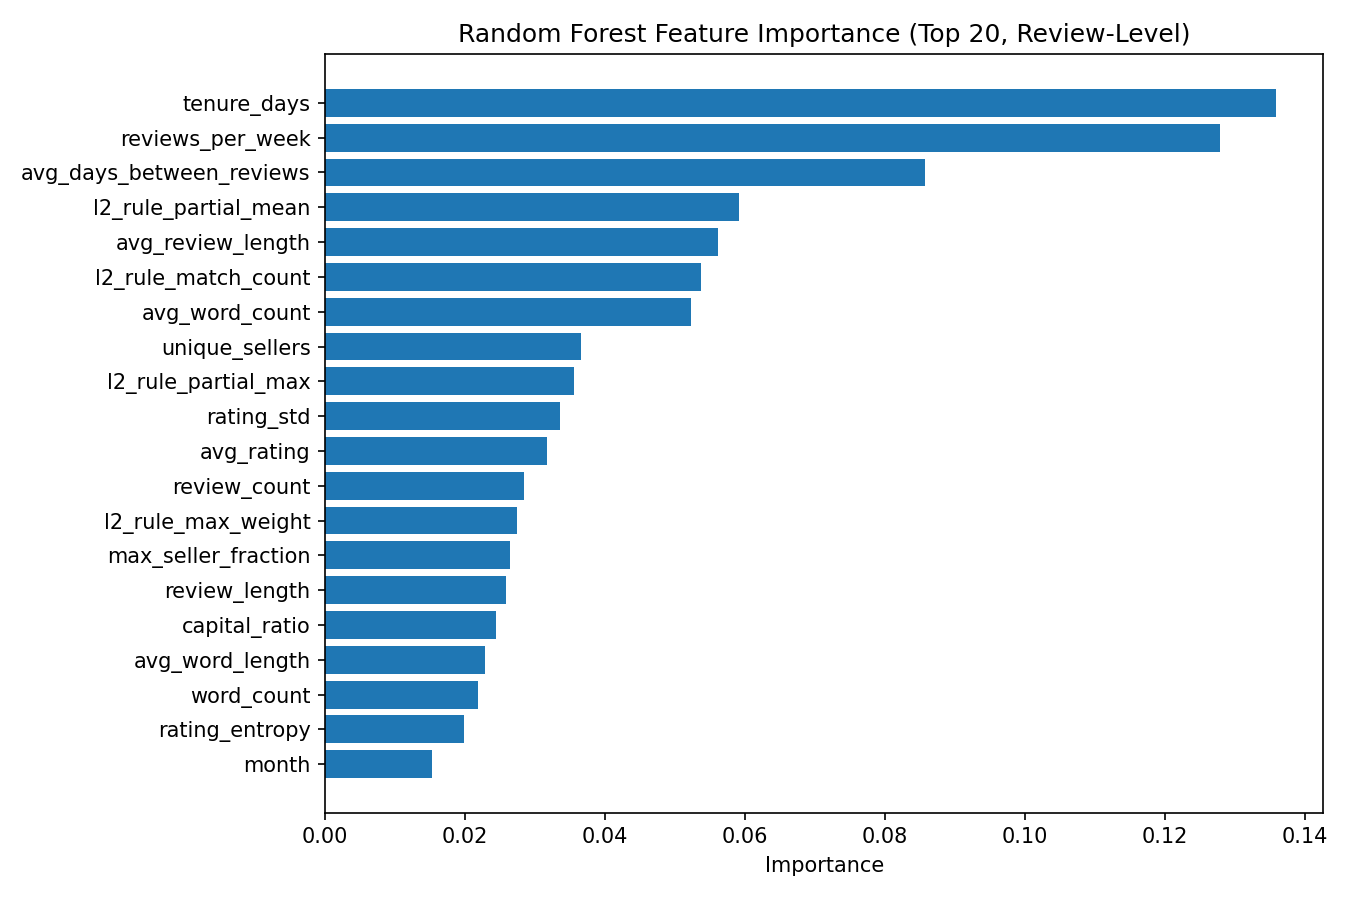
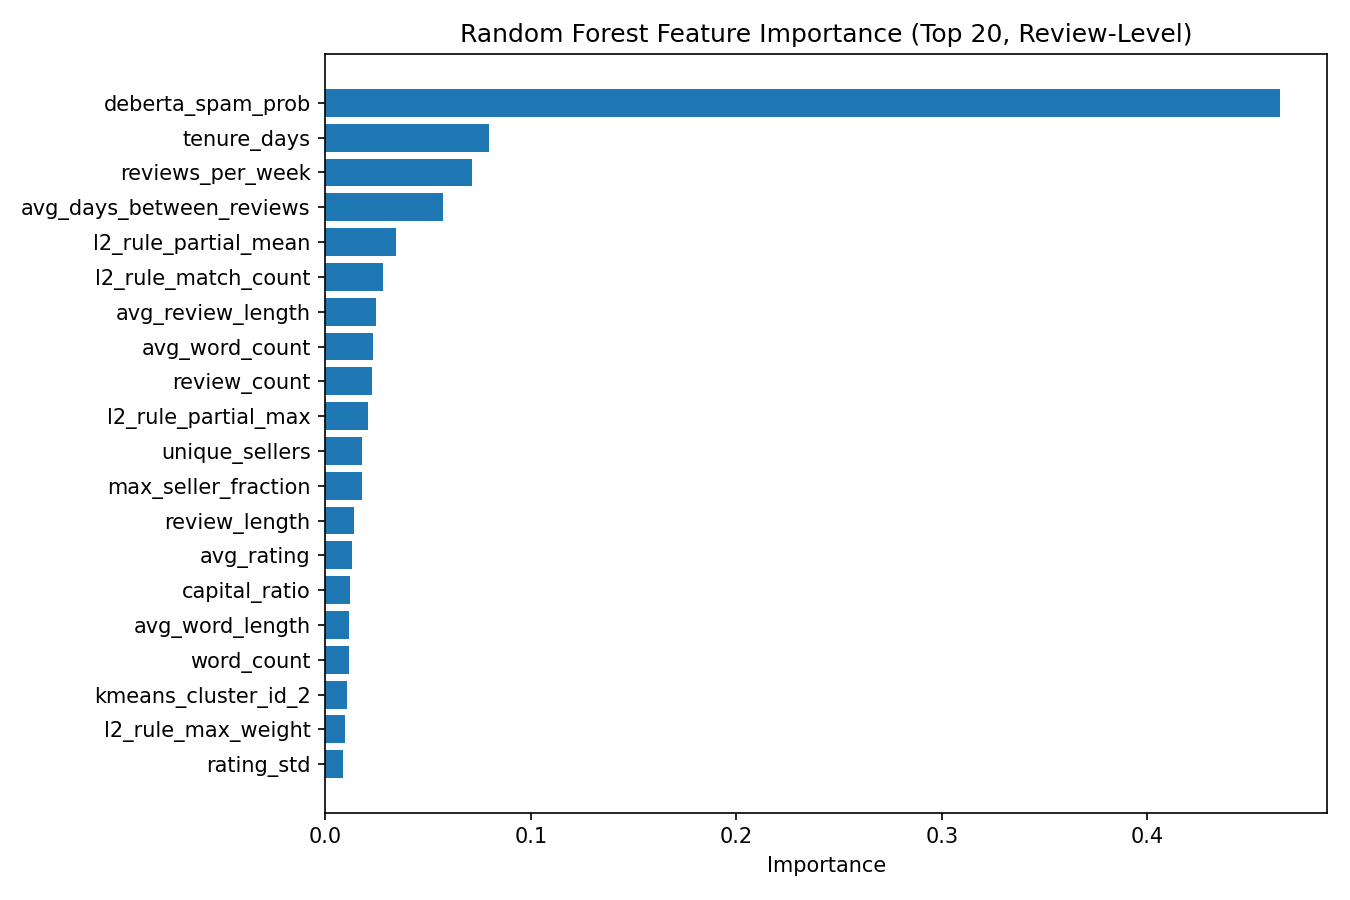
L5: rewrite classification at review-level with L3 signal (MLP AUC=0.94)

diff --git a/L5_Classification/02_train_models.py b/L5_Classification/02_train_models.py
@@ -36,11 +36,14 @@ from sklearn.metrics import (
     roc_auc_score,
     roc_curve,
 )
-from sklearn.model_selection import StratifiedGroupKFold, train_test_split
 from sklearn.neural_network import MLPClassifier
 from sklearn.pipeline import Pipeline
 from sklearn.preprocessing import StandardScaler
 from sklearn.tree import DecisionTreeClassifier
+
+import sys as _sys
+_sys.path.insert(0, str(Path(__file__).resolve().parent))
+from utils import get_group_stratified_split, impute_split, prepare_features  # noqa: E402
 
 PROJECT_ROOT = Path(__file__).resolve().parents[1]
 L5_DIR = PROJECT_ROOT / "L5_Classification"
@@ -51,89 +54,8 @@ INPUT_PATH = OUTPUT_DIR / "l5_feature_table.csv"
 RANDOM_STATE = 42
 
 
-def get_group_stratified_split(
-    X: pd.DataFrame,
-    y: np.ndarray,
-    groups: np.ndarray,
-    test_size: float = 0.20,
-    random_state: int = 42,
-) -> tuple[np.ndarray, np.ndarray]:
-    n_splits = max(2, int(round(1 / test_size)))
-    sgkf = StratifiedGroupKFold(n_splits=n_splits, shuffle=True, random_state=random_state)
-
-    best_split = None
-    best_gap = float("inf")
-
-    for tr_idx, te_idx in sgkf.split(X, y, groups):
-        current_ratio = len(te_idx) / len(y)
-        gap = abs(current_ratio - test_size)
-        if gap < best_gap:
-            best_gap = gap
-            best_split = (tr_idx, te_idx)
-
-    if best_split is None:
-        tr_idx, te_idx = train_test_split(
-            np.arange(len(y)),
-            test_size=test_size,
-            stratify=y,
-            random_state=random_state,
-        )
-        return tr_idx, te_idx
-
-    return best_split
-
-
-def _prepare_features(df: pd.DataFrame) -> tuple[pd.DataFrame, np.ndarray, np.ndarray]:
-    """Prepare review-level features. Label = is_spam, groups = user_id."""
-    if "is_spam" not in df.columns:
-        raise KeyError("Input feature table must contain is_spam")
-    if "user_id" not in df.columns:
-        raise KeyError("Input feature table must contain user_id")
-
-    leakage_cols = {
-        "user_id",
-        "prod_id",
-        "is_spam",
-        "spam_label",
-        "spam_rate",
-        "spam_count",
-        "is_spam_reviewer",
-        "label",
-    }
-    drop_cols = {"first_review_date", "last_review_date", "review_date", "date", "year_month"}
-
-    exclude = leakage_cols | drop_cols
-    X = df[[c for c in df.columns if c not in exclude]].copy()
-    y = df["is_spam"].astype(int).to_numpy()
-    groups = df["user_id"].to_numpy()
-
-    for col in X.columns:
-        if X[col].dtype == "bool":
-            X[col] = X[col].astype(int)
-
-    # One-hot encode kmeans_cluster_id (5 clusters — manageable)
-    # dbscan_is_noise stays as-is (already binary), no dbscan_cluster column
-    cluster_cols = [c for c in ("kmeans_cluster_id",) if c in X.columns]
-    if cluster_cols:
-        for c in cluster_cols:
-            X[c] = X[c].astype(int).astype(str)
-        X = pd.get_dummies(X, columns=cluster_cols, drop_first=False)
-
-    cat_cols = [c for c in X.columns if X[c].dtype == "object"]
-    if cat_cols:
-        X = pd.get_dummies(X, columns=cat_cols, drop_first=False)
-
-    X = X.apply(pd.to_numeric, errors="coerce")
-
-    return X, y, groups
-
-
-def _impute_split(X_train: pd.DataFrame, X_test: pd.DataFrame) -> tuple[pd.DataFrame, pd.DataFrame]:
-    """Fill NaNs using training-set median only (no test-set leakage)."""
-    train_median = X_train.median(numeric_only=True)
-    X_train = X_train.fillna(train_median).fillna(0)
-    X_test = X_test.fillna(train_median).fillna(0)
-    return X_train, X_test
+_prepare_features = prepare_features
+_impute_split = impute_split
 
 
 def _score_vector(model, X: pd.DataFrame) -> np.ndarray:

diff --git a/L5_Classification/03_anomaly_detection.py b/L5_Classification/03_anomaly_detection.py
@@ -23,9 +23,12 @@ import numpy as np
 import pandas as pd
 from sklearn.ensemble import IsolationForest
 from sklearn.metrics import average_precision_score, f1_score, roc_auc_score, roc_curve
-from sklearn.model_selection import StratifiedGroupKFold, train_test_split
 from sklearn.neighbors import LocalOutlierFactor
 from sklearn.preprocessing import StandardScaler
+
+import sys as _sys
+_sys.path.insert(0, str(Path(__file__).resolve().parent))
+from utils import get_group_stratified_split, impute_split, prepare_features  # noqa: E402
 
 PROJECT_ROOT = Path(__file__).resolve().parents[1]
 L5_DIR = PROJECT_ROOT / "L5_Classification"
@@ -36,83 +39,8 @@ INPUT_PATH = OUTPUT_DIR / "l5_feature_table.csv"
 RANDOM_STATE = 42
 
 
-def get_group_stratified_split(
-    X: pd.DataFrame,
-    y: np.ndarray,
-    groups: np.ndarray,
-    test_size: float = 0.20,
-    random_state: int = 42,
-) -> tuple[np.ndarray, np.ndarray]:
-    n_splits = max(2, int(round(1 / test_size)))
-    sgkf = StratifiedGroupKFold(n_splits=n_splits, shuffle=True, random_state=random_state)
-
-    best_split = None
-    best_gap = float("inf")
-
-    for tr_idx, te_idx in sgkf.split(X, y, groups):
-        current_ratio = len(te_idx) / len(y)
-        gap = abs(current_ratio - test_size)
-        if gap < best_gap:
-            best_gap = gap
-            best_split = (tr_idx, te_idx)
-
-    if best_split is None:
-        tr_idx, te_idx = train_test_split(
-            np.arange(len(y)),
-            test_size=test_size,
-            stratify=y,
-            random_state=random_state,
-        )
-        return tr_idx, te_idx
-
-    return best_split
-
-
-def _prepare_features(df: pd.DataFrame) -> tuple[pd.DataFrame, np.ndarray, np.ndarray]:
-    """Prepare review-level features. Label = is_spam, groups = user_id."""
-    leakage_cols = {
-        "user_id",
-        "prod_id",
-        "is_spam",
-        "spam_label",
-        "spam_rate",
-        "spam_count",
-        "is_spam_reviewer",
-        "label",
-    }
-    drop_cols = {"first_review_date", "last_review_date", "review_date", "date", "year_month"}
-
-    exclude = leakage_cols | drop_cols
-    X = df[[c for c in df.columns if c not in exclude]].copy()
-    y = df["is_spam"].astype(int).to_numpy()
-    groups = df["user_id"].to_numpy()
-
-    for col in X.columns:
-        if X[col].dtype == "bool":
-            X[col] = X[col].astype(int)
-
-    # One-hot encode kmeans_cluster_id only (no dbscan_cluster column)
-    cluster_cols = [c for c in ("kmeans_cluster_id",) if c in X.columns]
-    if cluster_cols:
-        for c in cluster_cols:
-            X[c] = X[c].astype(int).astype(str)
-        X = pd.get_dummies(X, columns=cluster_cols, drop_first=False)
-
-    cat_cols = [c for c in X.columns if X[c].dtype == "object"]
-    if cat_cols:
-        X = pd.get_dummies(X, columns=cat_cols, drop_first=False)
-
-    X = X.apply(pd.to_numeric, errors="coerce")
-
-    return X, y, groups
-
-
-def _impute_split(X_train: pd.DataFrame, X_test: pd.DataFrame) -> tuple[pd.DataFrame, pd.DataFrame]:
-    """Fill NaNs using training-set median only (no test-set leakage)."""
-    train_median = X_train.median(numeric_only=True)
-    X_train = X_train.fillna(train_median).fillna(0)
-    X_test = X_test.fillna(train_median).fillna(0)
-    return X_train, X_test
+_prepare_features = prepare_features
+_impute_split = impute_split
 
 
 def _evaluate(y_true: np.ndarray, scores: np.ndarray, pred_binary: np.ndarray, name: str) -> dict:

diff --git a/L5_Classification/01_build_feature_table.py b/L5_Classification/01_build_feature_table.py
@@ -44,6 +44,7 @@ REVIEWER_PROFILE_CANDIDATES = [
 L2_RULES_PATH = PROJECT_ROOT / "L2_FPGrowth" / "outputs" / "spam_correlated_rules.csv"
 L4_KMEANS_PATH = PROJECT_ROOT / "L4_Clustering" / "outputs" / "reviewer_clusters.csv"
 L4_DBSCAN_PATH = PROJECT_ROOT / "L4_Clustering" / "outputs" / "dbscan_results.csv"
+L3_PREDICTIONS_PATH = PROJECT_ROOT / "L3" / "outputs" / "deberta_predictions.csv"
 
 TOP_L2_RULES = 50
 
@@ -297,6 +298,29 @@ def main() -> None:
     l4_features = _load_l4_features(profiles["user_id"])
     merged = merged.merge(l4_features, on="user_id", how="left")
 
+    # Step 5b: Join L3 DeBERTa spam probability per (user_id, prod_id, date)
+    has_l3 = L3_PREDICTIONS_PATH.exists()
+    if has_l3:
+        l3 = pd.read_csv(
+            L3_PREDICTIONS_PATH,
+            usecols=["user_id", "prod_id", "date", "deberta_spam_prob"],
+        )
+        # Reviews loaded above dropped 'date'; pull it back for the join only.
+        reviews_with_date = pd.read_csv(
+            reviews_path,
+            engine="python",
+            on_bad_lines="skip",
+            usecols=["user_id", "prod_id", "date"],
+        )
+        before = len(merged)
+        merged = merged.merge(reviews_with_date, on=["user_id", "prod_id"], how="left")
+        if len(merged) != before:
+            print(f"  WARNING: date join changed row count {before:,} -> {len(merged):,}")
+        merged = merged.merge(l3, on=["user_id", "prod_id", "date"], how="left")
+        merged.drop(columns=["date"], inplace=True)
+        n_match = int(merged["deberta_spam_prob"].notna().sum())
+        print(f"  L3 deberta_spam_prob matched: {n_match:,} / {len(merged):,}")
+
     # Step 6: Fill nulls from optional merges
     if "kmeans_cluster_id" in merged.columns:
         merged["kmeans_cluster_id"] = merged["kmeans_cluster_id"].fillna(-1)
@@ -306,6 +330,10 @@ def main() -> None:
     for col in ["l2_rule_match_count", "l2_rule_max_weight", "l2_rule_partial_mean", "l2_rule_partial_max"]:
         if col in merged.columns:
             merged[col] = merged[col].fillna(0)
+
+    if "deberta_spam_prob" in merged.columns:
+        median_prob = float(merged["deberta_spam_prob"].median())
+        merged["deberta_spam_prob"] = merged["deberta_spam_prob"].fillna(median_prob)
 
     # Save
     output_path = L5_OUTPUT_DIR / "l5_feature_table.csv"
@@ -337,6 +365,7 @@ def main() -> None:
         "l2_rules_used": int(len(l2_rules)),
         "has_kmeans": bool(L4_KMEANS_PATH.exists()),
         "has_dbscan": bool(L4_DBSCAN_PATH.exists()),
+        "has_l3": bool(has_l3),
     }
     (L5_OUTPUT_DIR / "l5_build_metadata.json").write_text(json.dumps(metadata, indent=2), encoding="utf-8")
 

diff --git a/L5_Classification/main.py b/L5_Classification/main.py
@@ -1,9 +1,12 @@
 """Run the full Layer-5 pipeline.
 
 Order:
-    1) Build fused feature table (L1 + L2 + L4 signals)
-    2) Train supervised models (Decision Tree / RF / SVM)
+    1) Build fused feature table (L1 + L2 + L3 + L4 signals)
+    2) Train supervised models (Decision Tree / Random Forest / MLP)
     3) Train anomaly models (Isolation Forest / LOF)
+    4) Stacked ensemble over saved holdout predictions
+    5) Error analysis on the best supervised model
+    6) Post-hoc calibration (Platt + isotonic)
 """
 
 from __future__ import annotations
@@ -27,6 +30,9 @@ def main() -> None:
     _run("01_build_feature_table.py")
     _run("02_train_models.py")
     _run("03_anomaly_detection.py")
+    _run("06_ensemble.py")
+    _run("07_error_analysis.py")
+    _run("08_calibration.py")
     print("\nLayer-5 pipeline completed.")
 
 
